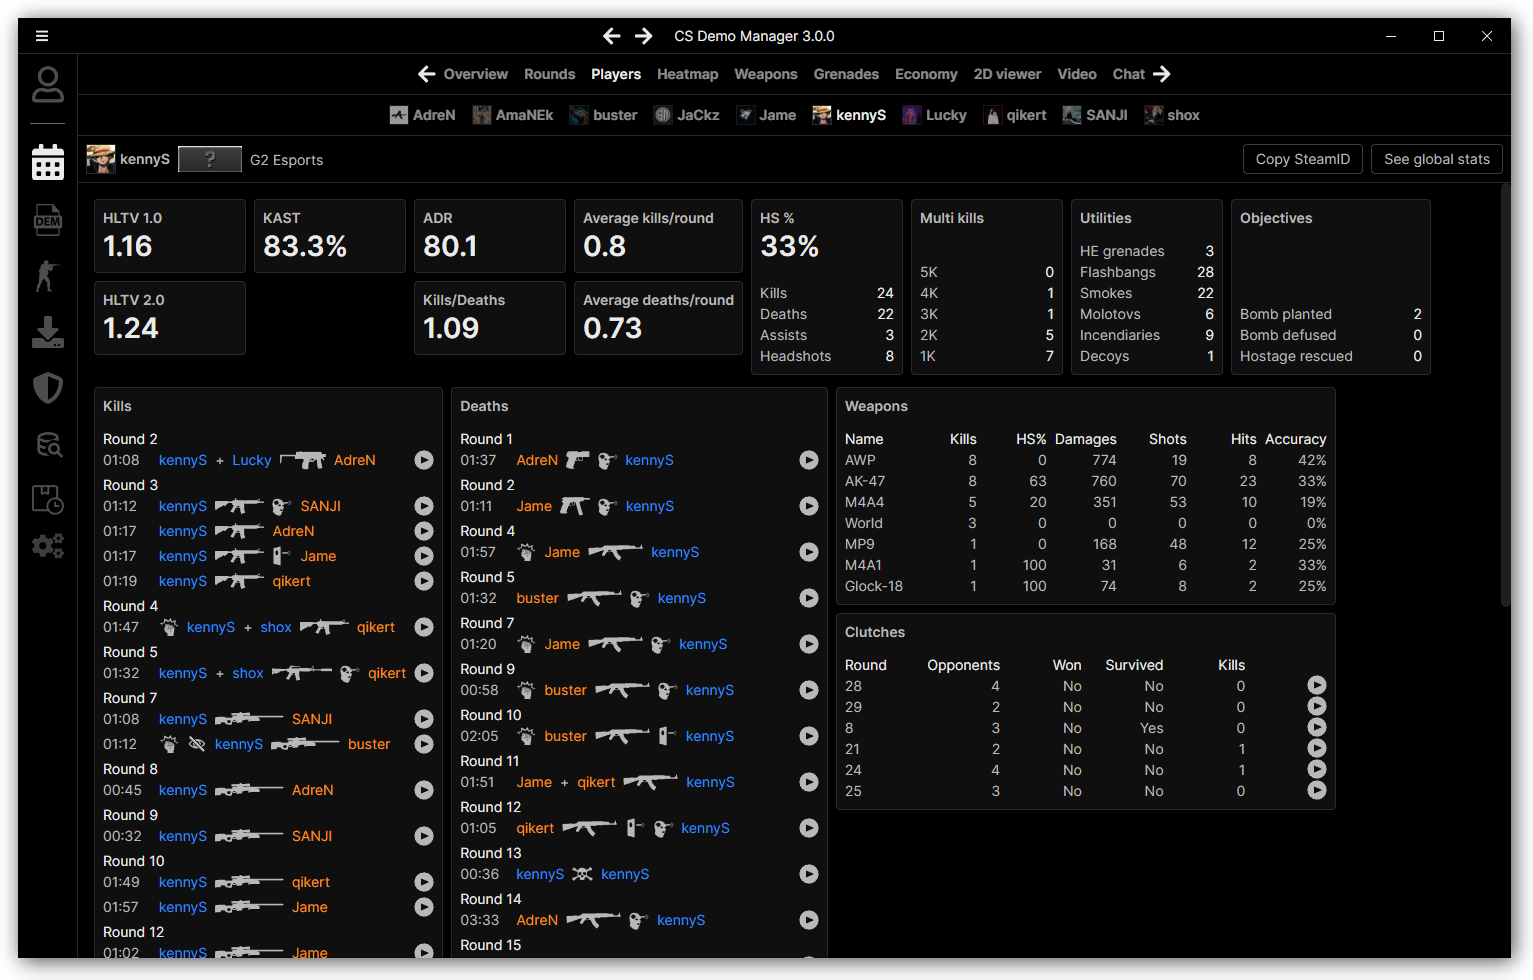
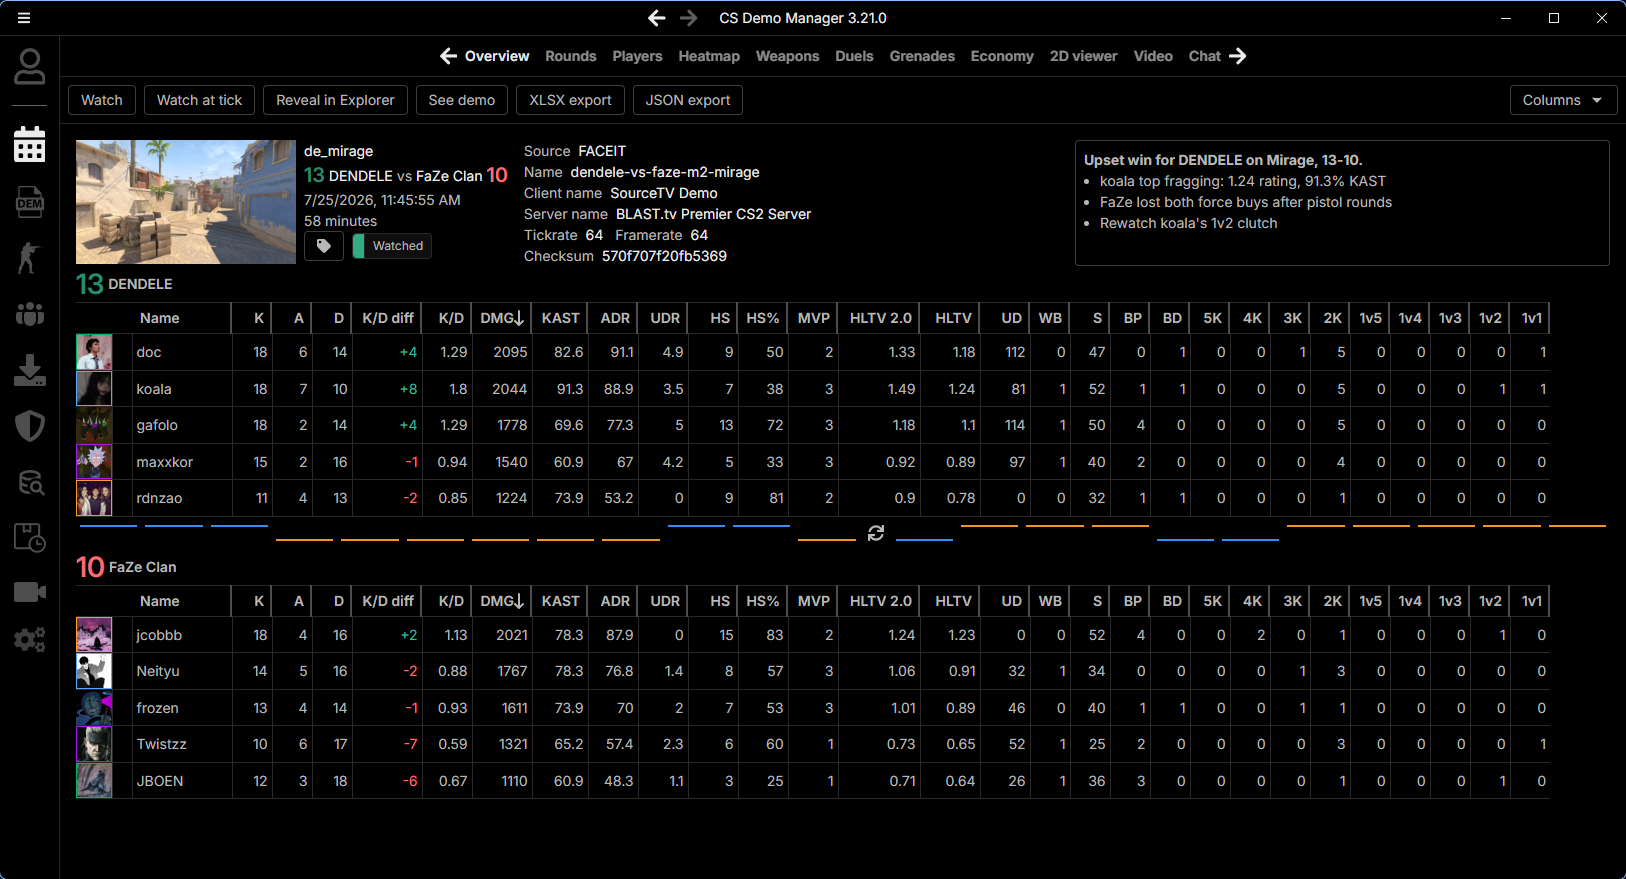
feat: refresh homepage
Feature the 3.21 in-game playback UI, the 2D viewer, stats and videos
generation in showcase rows, add a 3.21 banner, a closing call to action
and updated screenshots.

Add a default social preview image and titles/descriptions for the
changelog and download pages.

Changed region(s): [[0.0, 0.0, 1.0, 1.0], [0.5825, 0.215, 0.6438, 0.2457]]

diff --git a/src/pages/index.tsx b/src/pages/index.tsx
@@ -3,30 +3,166 @@ import Link from '@docusaurus/Link';
 import Layout from '@theme/Layout';
 import Logo from '@site/static/img/logo-home.svg';
 
-type CardProps = {
+type Showcase = {
+  title: string;
+  description: string;
+  bullets: string[];
+  imageSrc: string;
+  imageWidth: number;
+  imageHeight: number;
+  docLink: string;
+};
+
+const showcases: Showcase[] = [
+  {
+    title: 'In-game playback UI',
+    description: 'Control CS2 demo playback with a UI drawn directly over the game.',
+    bullets: [
+      'Match and round timelines with kills, bomb plants and defuses, click anywhere to seek',
+      'Jump between the kills, highlights and lowlights of any player',
+      'See who is talking and mute players individually or per team',
+      "Overlay of the spectated player's pressed keys and speed",
+      'Create a video sequence of what you are watching in 2 clicks',
+    ],
+    imageSrc: '/img/blog/v3-21/playback-ui.jpg',
+    imageWidth: 1920,
+    imageHeight: 1080,
+    docLink: '/docs/guides/cs2-demo-playback-ui',
+  },
+  {
+    title: '2D viewer',
+    description: 'Watch demos from above without launching the game.',
+    bullets: [
+      'Kills feed, death positions, shots and C4 blast zones on the radar',
+      'Draw on the radar to explain a strategy',
+      "Generate an audio file from the players' voice chat and listen to it in sync",
+    ],
+    imageSrc: '/img/documentation/guides/2d-viewer/2d-viewer.png',
+    imageWidth: 1920,
+    imageHeight: 1032,
+    docLink: '/docs/guides/2d-viewer',
+  },
+  {
+    title: 'Stats',
+    description: 'Analyze demos to extract statistics from your matches.',
+    bullets: [
+      'Valve Matchmaking, FACEIT, Perfect World, 5EPlay and more',
+      'HLTV rating, KAST, ADR, multi-kills, utility, clutches…',
+      'Tag players and filter matches across all your demos',
+    ],
+    imageSrc: '/img/stats.png',
+    imageWidth: 1626,
+    imageHeight: 879,
+    docLink: '/docs/guides/demos-analysis',
+  },
+  {
+    title: 'Videos generation',
+    description: 'Turn demos into videos without recording them manually.',
+    bullets: [
+      'Add sequences and merge them into one video or generate one video per sequence',
+      'Focus on players and switch between fixed cameras during a sequence',
+      'Queue multiple videos and let them generate',
+    ],
+    imageSrc: '/img/video.png',
+    imageWidth: 1920,
+    imageHeight: 1032,
+    docLink: '/docs/guides/video',
+  },
+];
+
+type Feature = {
   title: string;
   description: string;
   imageSrc: string;
 };
 
-function Card({ title, description, imageSrc }: CardProps) {
+const features: Feature[] = [
+  {
+    title: 'Grenades finder',
+    description: 'Quickly find smokes, flashbangs…',
+    imageSrc: '/img/grenades-finder.png',
+  },
+  {
+    title: 'Heatmap',
+    description: 'Generate and export heatmaps.',
+    imageSrc: '/img/heatmap.png',
+  },
+  {
+    title: 'Search',
+    description: 'Quickly find 5K, 4K, ninja defuse…',
+    imageSrc: '/img/search.png',
+  },
+  {
+    title: 'Demos download',
+    description: 'Download your last Valve/third-party demos.',
+    imageSrc: '/img/downloads.png',
+  },
+  {
+    title: 'VAC tracker',
+    description: 'Track VAC bans.',
+    imageSrc: '/img/vac.png',
+  },
+  {
+    title: 'Export',
+    description: 'Export data to XLSX/JSON files or query the database using SQL.',
+    imageSrc: '/img/export.png',
+  },
+];
+
+function ShowcaseRow({ showcase, reversed }: { showcase: Showcase; reversed: boolean }) {
   return (
-    <div className="flex flex-col w-full lg:w-[calc(100%/2)] p-2">
-      <div className="flex flex-col bg-[#141414] rounded-lg p-4 border-solid border border-[#292929] h-full">
-        <span className="text-lg font-semibold">{title}</span>
-        <span className="text-[#b8b8b8]">{description}</span>
-        <img src={imageSrc} className="aspect-video w-full h-full" alt={title} />
+    <section className="flex flex-col lg:flex-row items-center gap-8 lg:gap-12">
+      <div className={`w-full lg:w-3/5 ${reversed ? 'lg:order-2' : ''}`}>
+        <img
+          src={showcase.imageSrc}
+          width={showcase.imageWidth}
+          height={showcase.imageHeight}
+          loading="lazy"
+          alt={showcase.title}
+          className="w-full h-auto rounded-lg border border-solid border-[#292929]"
+        />
       </div>
+      <div className="flex flex-col w-full lg:w-2/5">
+        <h2 className="text-white text-2xl mb-2">{showcase.title}</h2>
+        <p className="text-[#b8b8b8] mb-3">{showcase.description}</p>
+        <ul className="text-[#b8b8b8] mb-4 pl-5">
+          {showcase.bullets.map((bullet) => (
+            <li key={bullet}>{bullet}</li>
+          ))}
+        </ul>
+        <Link to={showcase.docLink}>Learn more →</Link>
+      </div>
+    </section>
+  );
+}
+
+function FeatureCard({ feature }: { feature: Feature }) {
+  return (
+    <div className="flex flex-col h-full bg-[#141414] rounded-lg p-4 border border-solid border-[#292929]">
+      <img
+        src={feature.imageSrc}
+        loading="lazy"
+        alt={feature.title}
+        className="aspect-video w-full object-cover object-top rounded mb-3"
+      />
+      <span className="text-lg font-semibold text-white">{feature.title}</span>
+      <span className="text-[#b8b8b8]">{feature.description}</span>
     </div>
   );
 }
 
 export default function Home() {
   return (
-    <Layout description="CS Demo Manager is an application to manage your replays from the game Counter-Strike.">
+    <Layout description="CS Demo Manager is a companion application for your Counter-Strike demos: stats, 2D viewer, in-game playback UI, videos generation and more.">
       <div className="flex flex-col">
         <div className="flex flex-col md:flex-row items-center justify-center gap-x-16 md:justify-normal px-4 md:px-16 mx-auto">
-          <div className="flex flex-col text-center md:text-left order-2 md:order-1">
+          <div className="flex flex-col items-center md:items-start text-center md:text-left order-2 md:order-1">
+            <Link
+              to="/blog/v3-21"
+              className="mb-4 rounded-full border border-solid border-[#292929] bg-[#141414] px-3 py-1 text-sm text-[#b8b8b8] hover:no-underline hover:border-[#4d4d4d] hover:text-white"
+            >
+              New in 3.21: in-game playback UI →
+            </Link>
             <h1 className="text-white text-4xl">CS Demo Manager</h1>
             <p className="text-lg">Companion application for your Counter-Strike demos.</p>
             <div className="flex flex-col md:flex-row flex-wrap gap-x-4 gap-y-2">
@@ -43,31 +179,32 @@ export default function Home() {
             <div className="absolute left-1/2 top-1/2 rounded-full size-44 -translate-x-1/2 -translate-y-1/2 bg-gradient-home blur-[82px]" />
           </div>
         </div>
-        <div className="flex flex-wrap mt-4 mb-16 px-4 lg:px-32 mx-auto">
-          <Card title="Stats" description="Extract statistics from demos." imageSrc="./img/stats.png" />
-          <Card
-            title="Grenades finder"
-            description="Quickly find smokes, flashbangs..."
-            imageSrc="./img/grenades-finder.png"
-          />
-          <Card title="Heatmap" description="Generate and export heatmaps." imageSrc="./img/heatmap.png" />
-          <Card title="VAC tracker" description="Track VAC bans." imageSrc="./img/vac.png" />
-          <Card title="Videos generation" description="Generate videos from demos." imageSrc="./img/video.png" />
-          <Card
-            title="Demos download"
-            description="Download your last Valve/third-party demos."
-            imageSrc="./img/downloads.png"
-          />
-          <Card title="Search" description="Quickly find 5K, 4K, ninja defuse..." imageSrc="./img/search.png" />
-          <Card
-            title="Export"
-            description="Export data to XLSX/JSON files or directly from the database using SQL."
-            imageSrc="./img/database.png"
-          />
-          <div className="p-2 w-full">
-            <div className="bg-[#141414] rounded-lg p-4 border-solid border border-[#292929]">
-              <span>And many more…</span>
-            </div>
+
+        <div className="flex flex-col gap-20 mt-8 px-4 lg:px-32 mx-auto max-w-[1400px] w-full box-border">
+          {showcases.map((showcase, index) => (
+            <ShowcaseRow key={showcase.title} showcase={showcase} reversed={index % 2 === 1} />
+          ))}
+        </div>
+
+        <div className="flex flex-col mt-24 mb-16 px-4 lg:px-32 mx-auto max-w-[1400px] w-full box-border">
+          <h2 className="text-white text-2xl text-center mb-8">And more</h2>
+          <div className="grid grid-cols-1 sm:grid-cols-2 lg:grid-cols-3 gap-4">
+            {features.map((feature) => (
+              <FeatureCard key={feature.title} feature={feature} />
+            ))}
+          </div>
+        </div>
+
+        <div className="flex flex-col items-center text-center mb-24 px-4">
+          <h2 className="text-white text-2xl mb-2">Get started</h2>
+          <p className="text-[#b8b8b8] mb-6">Free and open source, available on Windows, macOS and Linux.</p>
+          <div className="flex flex-col md:flex-row flex-wrap gap-x-4 gap-y-2">
+            <Link className="button button--primary button--lg" to="/download">
+              Download
+            </Link>
+            <Link className="button button--secondary button--lg" to="/docs">
+              Documentation
+            </Link>
           </div>
         </div>
       </div>

diff --git a/docusaurus.config.ts b/docusaurus.config.ts
@@ -73,6 +73,7 @@ const config: Config = {
   ],
 
   themeConfig: {
+    image: 'img/blog/v3-21/playback-ui.jpg',
     colorMode: {
       defaultMode: 'dark',
       disableSwitch: true,

diff --git a/skills/generate-changelog/SKILL.md b/skills/generate-changelog/SKILL.md
@@ -48,7 +48,7 @@ Look at the top-level `## vX.Y.Z` heading in `src/pages/changelog.mdx` to find t
 
 ### 5. Write the changelog entry
 
-Prepend the following block immediately after the HTML comment on line 1 of `src/pages/changelog.mdx` (before the existing first `## v...` heading).
+Prepend the following block immediately after the `[comment]` line that follows the front matter at the top of `src/pages/changelog.mdx` (before the existing first `## v...` heading).
 
 **Important:** The previous version section already contains the `:::info` open source notice — do **not** duplicate it. After inserting the new entry, find the old `## vX.Y.Z` heading that immediately follows and delete its `:::info ... :::` block (including the surrounding blank lines) if present.
 
